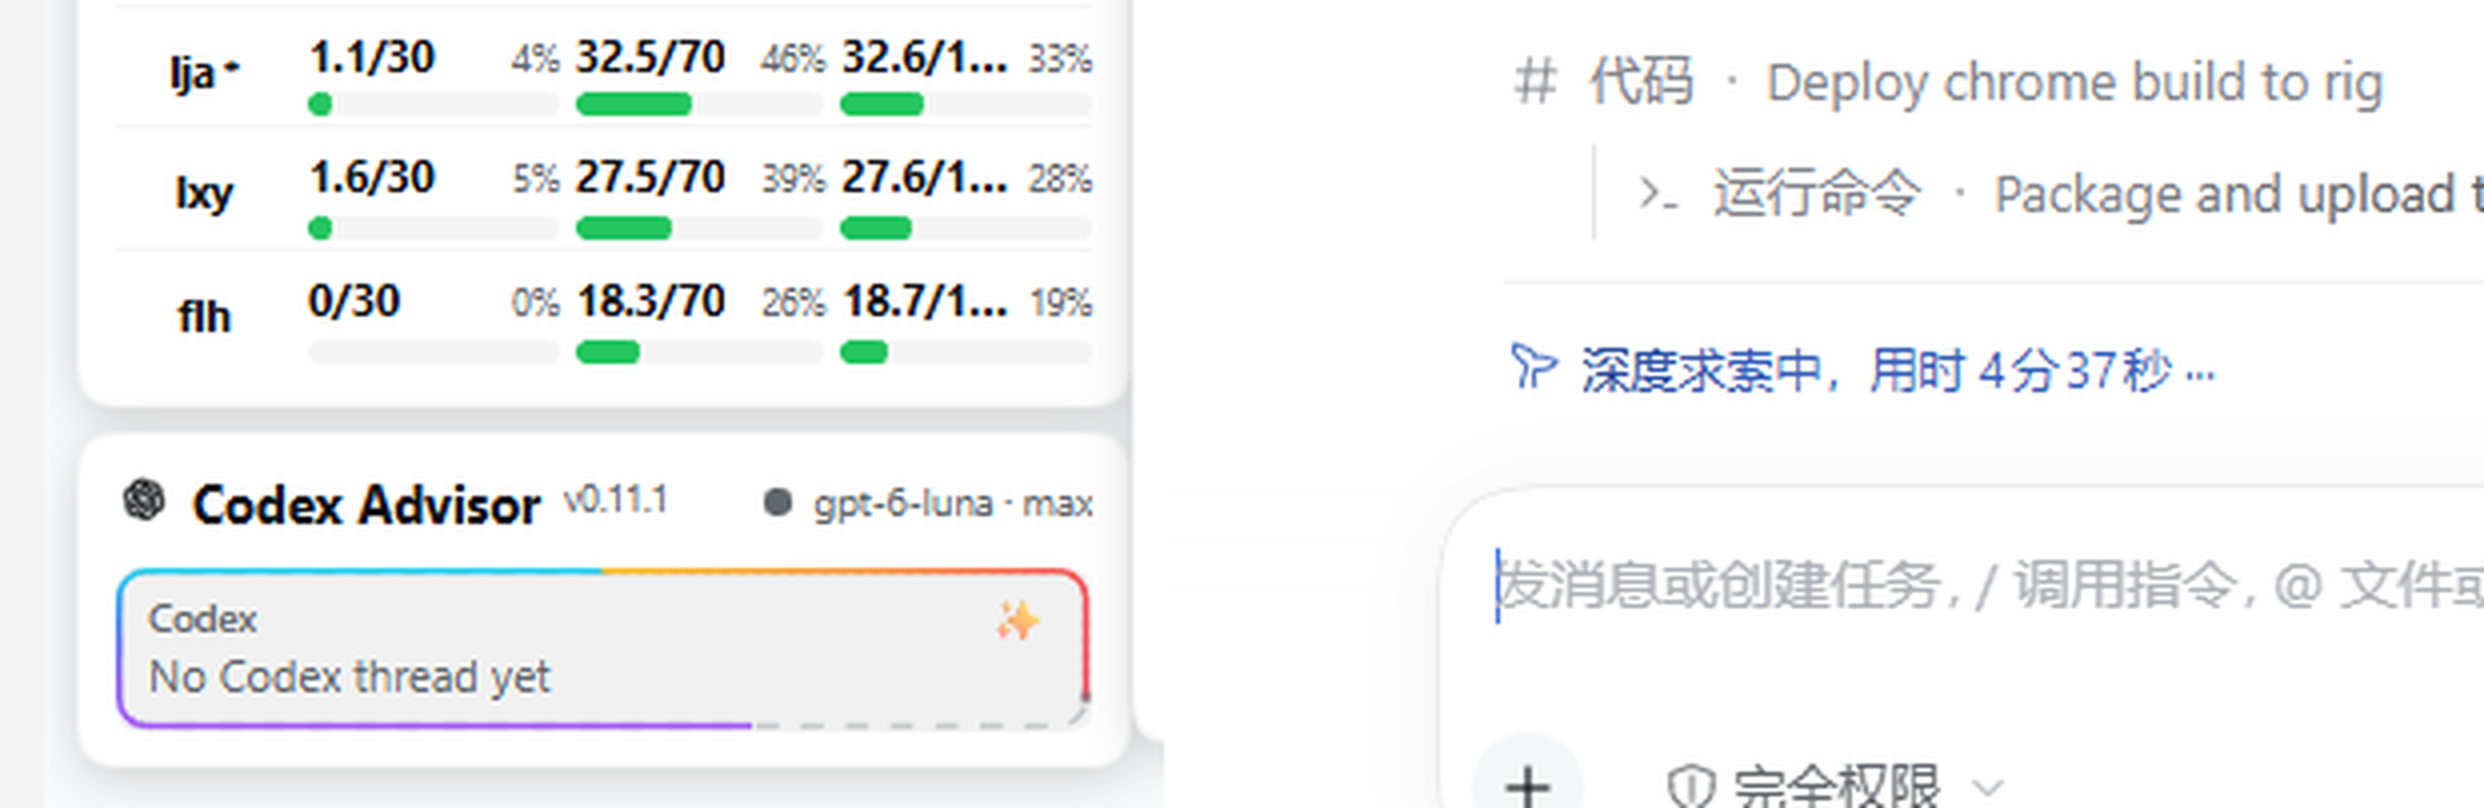
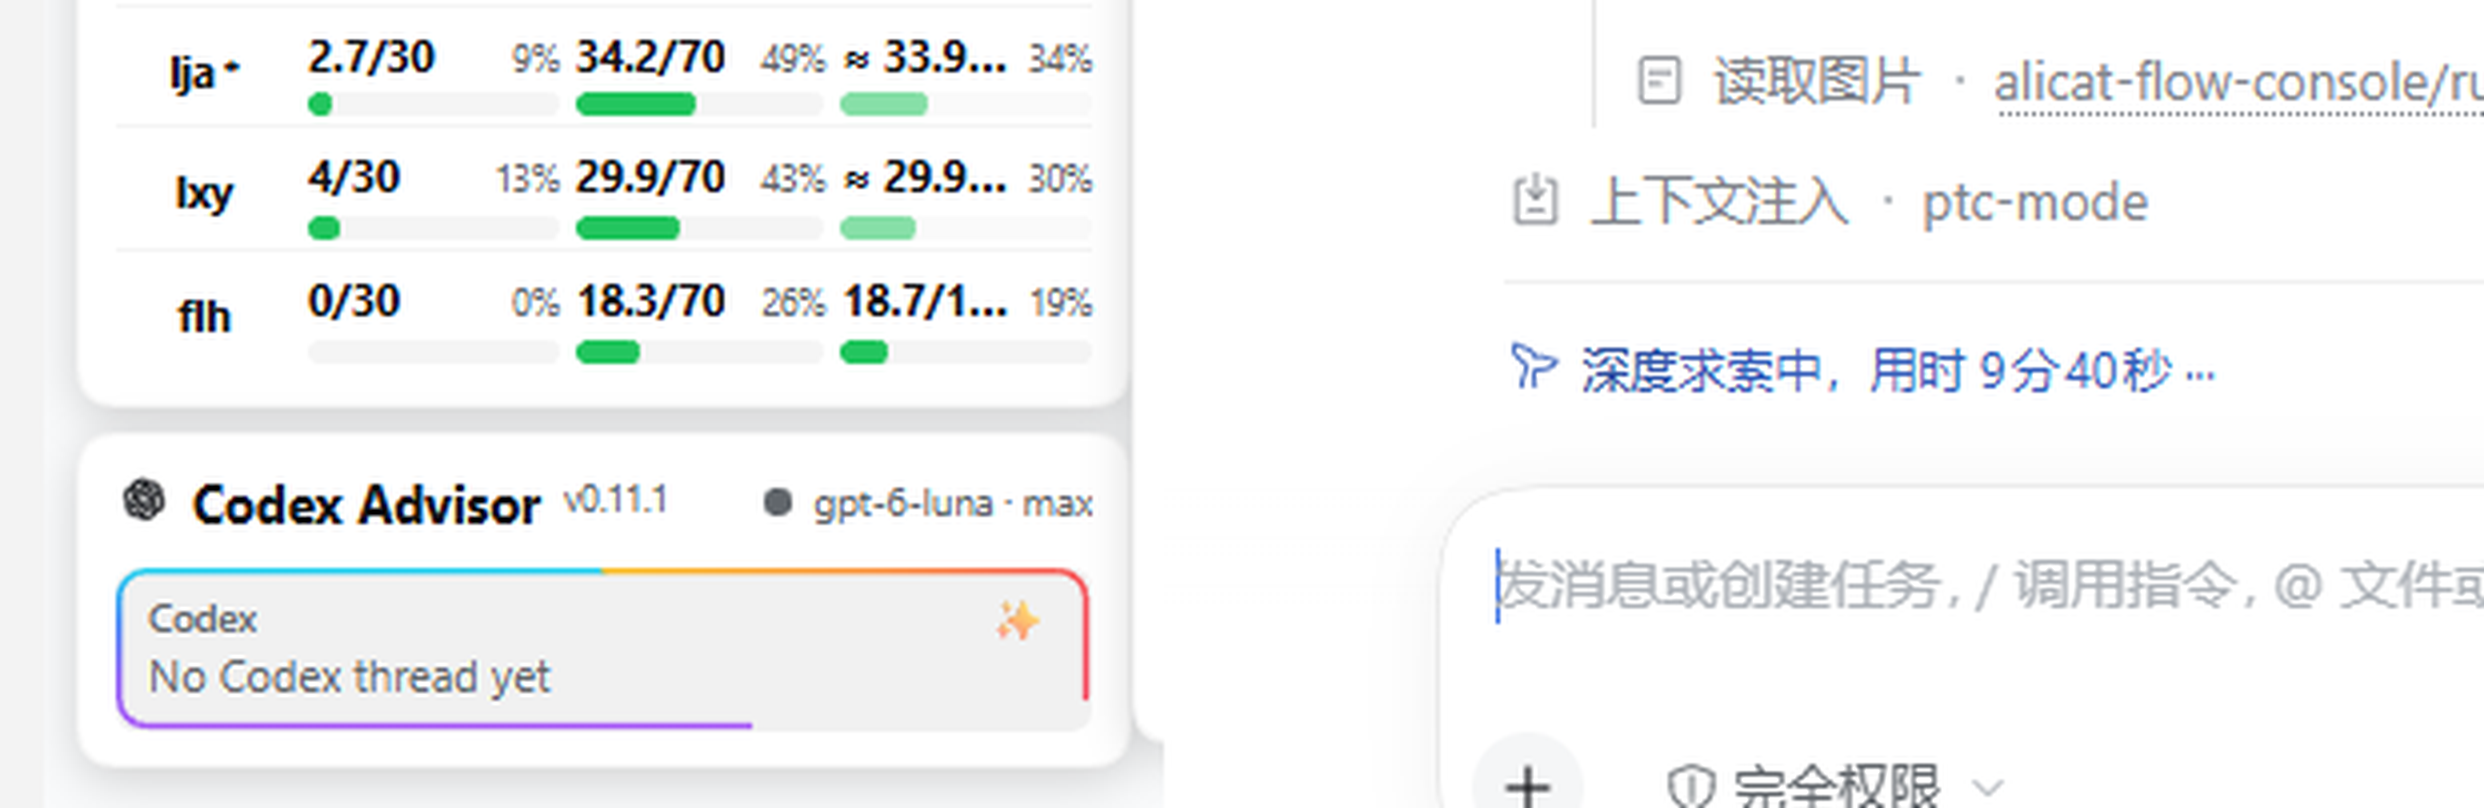
style: dark-theme palette for the quota gauge; 0.11.6

diff --git a/client.js b/client.js
@@ -1230,9 +1230,38 @@ window.__ModuleLoader__.load({
 
     let quotaGradientSeq = 0;
     const QUOTA_STOPS = Object.freeze({
-      weekly: ['#22d3ee', '#3b82f6', '#8b5cf6', '#a855f7'],
-      fiveHour: ['#fbbf24', '#fb923c', '#f43f5e'],
+      light: {
+        weekly: ['#22d3ee', '#3b82f6', '#8b5cf6', '#a855f7'],
+        fiveHour: ['#fbbf24', '#fb923c', '#f43f5e'],
+      },
+      dark: {
+        weekly: ['#67e8f9', '#60a5fa', '#a78bfa', '#c084fc'],
+        fiveHour: ['#fcd34d', '#fdba74', '#fb7185'],
+      },
     });
+
+    // DSH marks the dark theme on <body>; watch it so a live theme switch also
+    // repaints the gauge.
+    function useDarkTheme() {
+      const read = function () {
+        try {
+          return typeof document !== 'undefined' && document.body
+            ? document.body.hasAttribute('data-ds-dark-theme')
+            : false;
+        } catch {
+          return false;
+        }
+      };
+      const [dark, setDark] = React.useState(read);
+      React.useEffect(function () {
+        if (typeof MutationObserver !== 'function' || typeof document === 'undefined' || !document.body) return undefined;
+        const observer = new MutationObserver(function () { setDark(read()); });
+        observer.observe(document.body, { attributes: true, attributeFilter: ['data-ds-dark-theme'] });
+        setDark(read());
+        return function () { observer.disconnect(); };
+      }, []);
+      return dark;
+    }
 
     function quotaFill(window) {
       if (!window || window.known === false) return null;
@@ -1317,6 +1346,7 @@ window.__ModuleLoader__.load({
         };
       }
       if (weekly === null && fiveHour === null) return null;
+      const palette = (props.dark ? QUOTA_STOPS.dark : QUOTA_STOPS.light);
       const ids = idsRef.current;
       const stroke = 1.5;
       const paths = quotaArcPaths(width, height, 7, stroke);
@@ -1355,8 +1385,8 @@ window.__ModuleLoader__.load({
         style: { position: 'absolute', inset: 0, display: 'block', pointerEvents: 'none' },
       },
         h('defs', null,
-          gradient(ids.weekly, QUOTA_STOPS.weekly, width / 2),
-          gradient(ids.fiveHour, QUOTA_STOPS.fiveHour, width)),
+          gradient(ids.weekly, palette.weekly, width / 2),
+          gradient(ids.fiveHour, palette.fiveHour, width)),
         weekly === null ? null : fill(paths.weekly, weekly, ids.weekly),
         fiveHour === null ? null : fill(paths.fiveHour, fiveHour, ids.fiveHour));
     }
@@ -1444,13 +1474,14 @@ window.__ModuleLoader__.load({
     function AnswerBox(props) {
       const ref = React.useRef(null);
       const size = useElementSize(ref);
+      const dark = useDarkTheme();
       return h('div', {
         ref: ref,
         title: quotaTitleOf(props.quota, props.t),
         'data-codex-advisor-answer': '',
         style: { position: 'relative', minWidth: 0, borderRadius: 7, background: props.background },
       },
-        size ? h(QuotaBorder, { quota: props.quota, width: size.width, height: size.height, t: props.t }) : null,
+        size ? h(QuotaBorder, { quota: props.quota, width: size.width, height: size.height, t: props.t, dark: dark }) : null,
         h('div', { style: { position: 'relative', minWidth: 0, padding: '6px 8px 7px' } },
           h('div', { style: { display: 'flex', alignItems: 'center', gap: 6, minWidth: 0 } },
             props.label,

diff --git a/README.md b/README.md
@@ -4,7 +4,7 @@ A persistent **Codex advisor** for [DeepSeek Harness](https://github.com/deepsee
 
 One DSH session can keep several labeled Codex threads. Continue a thread for the same objective, or start another for a different aspect or model class. Codex runs through the official `codex app-server` protocol under your existing ChatGPT/Codex login, so it uses your Codex quota rather than a separate API key.
 
-> **Current release: 0.11.5.** Tested with DSH Desktop `0.2.1-rc.5` on Windows 11 and Codex CLI `0.166.0-alpha.5.1`. See [Compatibility](#compatibility).
+> **Current release: 0.11.6.** Tested with DSH Desktop `0.2.1-rc.5` on Windows 11 and Codex CLI `0.166.0-alpha.5.1`. See [Compatibility](#compatibility).
 
 ## What you get
 
@@ -38,7 +38,7 @@ The plugin is not affiliated with OpenAI or DeepSeek. It uses your existing Code
 Install the release tarball through DSH's plugin manager:
 
 ```text
-https://github.com/Awenforever/dsh-codex-advisor/archive/refs/tags/v0.11.5.tar.gz
+https://github.com/Awenforever/dsh-codex-advisor/archive/refs/tags/v0.11.6.tar.gz
 ```
 
 After installation, add/keep the `codex-advisor` bundle and restart DSH if the Host requests it. A client-bundle change may require a full DSH quit/reopen or a page reload; the Codex tab and sidebar card appear after the client bundle is reloaded.
@@ -48,7 +48,7 @@ After installation, add/keep the `codex-advisor` bundle and restart DSH if the H
 ### Web / CLI profile
 
 ```powershell
-dsh plugin --profile <profile> add https://github.com/Awenforever/dsh-codex-advisor/archive/refs/tags/v0.11.5.tar.gz
+dsh plugin --profile <profile> add https://github.com/Awenforever/dsh-codex-advisor/archive/refs/tags/v0.11.6.tar.gz
 ```
 
 Then restart that DSH profile. For the app-managed `desktop` profile, use the app's plugin manager instead of editing the profile by hand.
